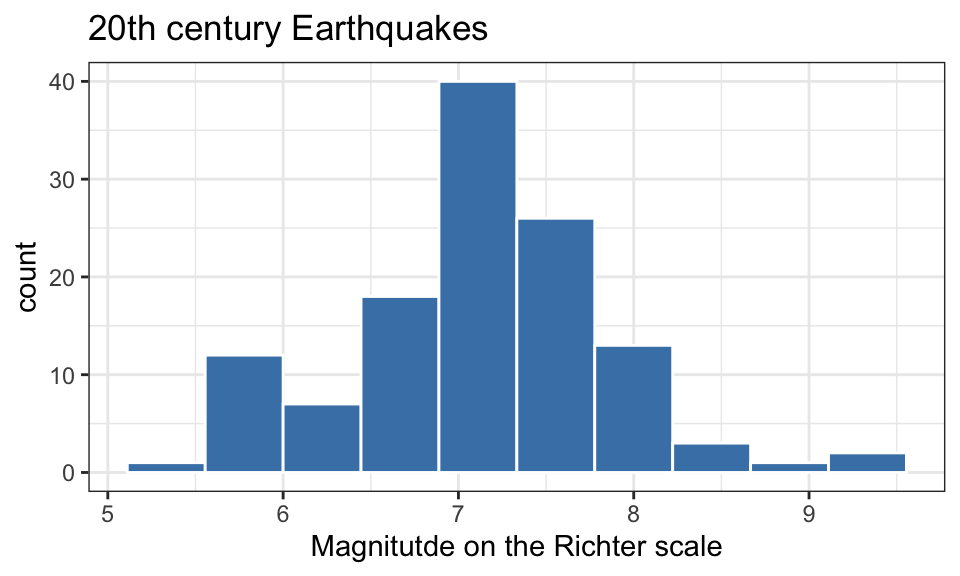
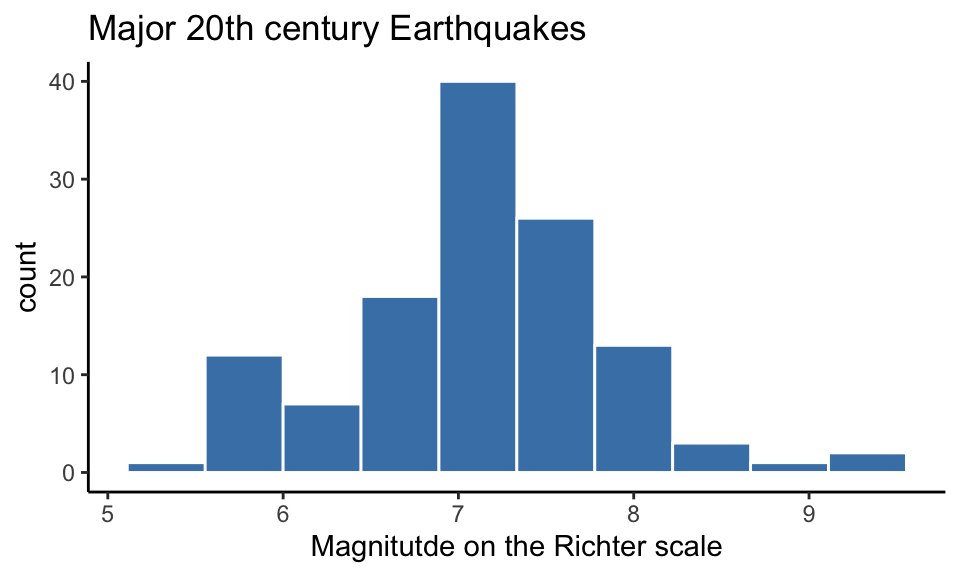
fix typos in data viz

diff --git a/dataviz.html b/dataviz.html
@@ -424,7 +424,7 @@ div.tocify {
 <p><strong>Example 1</strong>: A histogram of all magnitudes (on the <code>richter</code> scale):</p>
 <pre class="r"><code>ggplot(data=df)+
   geom_histogram(aes(x=richter),col=&quot;white&quot;,fill=&quot;steelblue&quot;,bins=10) +
-  ggtitle(&quot;20th century Earthquakes&quot;) +
+  ggtitle(&quot;Major 20th century Earthquakes&quot;) +
   xlab(&quot;Magnitutde on the Richter scale&quot;)</code></pre>
 <p><img src="dataviz_files/figure-html/unnamed-chunk-4-1.png" width="576" /></p>
 <p><strong>Notes on code</strong>:</p>
@@ -457,10 +457,10 @@ div.tocify {
 <h2>Add color and axis labels</h2>
 <pre class="r"><code>ggplot(data = df) +
   geom_histogram(aes(x=richter),bins = 20,col=&quot;blue&quot;,fill=&quot;yellow&quot;) + 
-  ggtitle(&quot;20th century Earthquakes&quot;) +
+  ggtitle(&quot;Major 20th century Earthquakes&quot;) +
   xlab(&quot;Magnitude on the Ricther scale&quot;)</code></pre>
 <p><img src="dataviz_files/figure-html/unnamed-chunk-6-1.png" width="480" /></p>
-<p>The <code>col</code> option colors the boundary of each bar, the <code>fill</code> option colors the interior of each bar. If we want to change the y-axis label, we use the code <code>ylab("enter new label here inside quotes")</code>.</p>
+<p>The <code>col</code> option colors the boundary of each bar, the <code>fill</code> option colors the interior of each bar. If we want to change the y-axis label, we add the layer <code>ylab("enter new label here inside quotes")</code>.</p>
 </div>
 <div id="specify-the-bins" class="section level2">
 <h2>Specify the bins</h2>
@@ -480,36 +480,46 @@ div.tocify {
 <p><img src="dataviz_files/figure-html/unnamed-chunk-8-1.png" width="480" /></p>
 </div>
 </div>
+<div id="add-a-vertical-line-to-a-histogram" class="section level2">
+<h2>Add a vertical line to a histogram</h2>
+<p>We can add a vertical line layer to a plot with <code>geom_vline()</code>. For instance, we may want to clearly mark in a histogram the mean value of the data.</p>
+<pre class="r"><code>ggplot(data = df) +
+  geom_histogram(aes(x=richter),col=&quot;white&quot;,fill=&quot;dodgerblue&quot;,bins=16)+
+  geom_vline(aes(xintercept=mean(richter)),
+             color=&quot;blue&quot;, linetype=&quot;dashed&quot;, size=1)</code></pre>
+<p><img src="dataviz_files/figure-html/unnamed-chunk-9-1.png" width="480" /></p>
+<p>We can add non-vertical lines to plots as well, and go through this in the scatter plots section of this tutorial.</p>
+</div>
 <div id="change-the-theme" class="section level2">
 <h2>Change the theme</h2>
 <p>If you’re not a fan of the gray plot background, you can change the theme. Here are two other options:</p>
 <pre class="r"><code>ggplot(data=df)+
   geom_histogram(aes(x=richter),col=&quot;white&quot;,fill=&quot;steelblue&quot;,bins=10) +
-  ggtitle(&quot;20th century Earthquakes&quot;) +
+  ggtitle(&quot;Major 20th century Earthquakes&quot;) +
   xlab(&quot;Magnitutde on the Richter scale&quot;)+
   theme_classic()</code></pre>
-<p><img src="dataviz_files/figure-html/unnamed-chunk-9-1.png" width="480" /></p>
+<p><img src="dataviz_files/figure-html/unnamed-chunk-10-1.png" width="480" /></p>
 <pre class="r"><code>ggplot(data=df)+
   geom_histogram(aes(x=richter),col=&quot;white&quot;,fill=&quot;steelblue&quot;,bins=10) +
-  ggtitle(&quot;20th century Earthquakes&quot;) +
+  ggtitle(&quot;Major 20th century Earthquakes&quot;) +
   xlab(&quot;Magnitutde on the Richter scale&quot;) + 
   theme_bw()</code></pre>
-<p><img src="dataviz_files/figure-html/unnamed-chunk-10-1.png" width="480" /></p>
+<p><img src="dataviz_files/figure-html/unnamed-chunk-11-1.png" width="480" /></p>
 </div>
-<div id="bonus-round---density-plot" class="section level2">
-<h2>Bonus Round - Density Plot</h2>
+<div id="density-plots" class="section level2">
+<h2>Density Plots</h2>
 <p>Instead of a histogram of counts, we can produce a histogram of relative frequencies by adding the option <code>aes(y = ..density..)</code> as below. This will produce a histogram that records the proportion of the values falling in each bin, not the total counts.</p>
 <pre class="r"><code>ggplot(df) + 
   geom_histogram(aes(x=richter,y = ..density..), bins=16, col=&quot;white&quot;, fill=&quot;dodgerblue&quot;,alpha = 0.4)</code></pre>
-<p><img src="dataviz_files/figure-html/unnamed-chunk-11-1.png" width="480" /></p>
-<p><strong>Note</strong>: The <code>alpha</code> option refers to the opacity of the fill color. Values of alpha range from 0 to 1, with lower values corresponding to more transparent colors.</p>
-<pre class="r"><code>ggplot(df) + 
-  geom_density(aes(x=richter)) + 
-  geom_vline(aes(xintercept=mean(richter)),
-            color=&quot;blue&quot;, linetype=&quot;dashed&quot;, size=1)</code></pre>
 <p><img src="dataviz_files/figure-html/unnamed-chunk-12-1.png" width="480" /></p>
-<p>The <code>geom_density()</code> function gives an idealized density plot rather than a histogram.</p>
-<p>The <code>geom_vline()</code> option places a vertical line in the graph, for which we’ve specified these options: the color is blue, it is dashed, and it hits the x-axis at the mean value of the <code>richter</code> variable.</p>
+<p><strong>Note</strong>: The <code>alpha</code> option refers to the opacity of the fill color. Values of alpha range from 0 to 1, with lower values corresponding to more transparent colors.</p>
+</div>
+<div id="sketch-a-density-curve" class="section level2">
+<h2>Sketch a density curve</h2>
+<p>The <code>geom_density()</code> command gives an idealized density curve rather than a histogram.</p>
+<pre class="r"><code>ggplot(df) + 
+  geom_density(aes(x=richter))</code></pre>
+<p><img src="dataviz_files/figure-html/unnamed-chunk-13-1.png" width="480" /></p>
 </div>
 </div>
 <div id="scatter-plots-with-ggplot" class="section level1">
@@ -522,7 +532,7 @@ div.tocify {
 <p>Although there is likely no association, we can plot earthquake magnitude against the day of the month on which it occurred.</p>
 <pre class="r"><code>ggplot(data = df) +
   geom_point(aes(x=richter,y=day))</code></pre>
-<p><img src="dataviz_files/figure-html/unnamed-chunk-13-1.png" width="480" /></p>
+<p><img src="dataviz_files/figure-html/unnamed-chunk-14-1.png" width="480" /></p>
 </div>
 <div id="add-color-and-axis-labels-1" class="section level2">
 <h2>Add color and axis labels</h2>
@@ -532,7 +542,7 @@ div.tocify {
   ylab(&quot;day of the month&quot;) +
   ggtitle(&quot;Major 20th Century Earthquakes&quot;) + 
   theme_bw()</code></pre>
-<p><img src="dataviz_files/figure-html/unnamed-chunk-14-1.png" width="480" /></p>
+<p><img src="dataviz_files/figure-html/unnamed-chunk-15-1.png" width="480" /></p>
 <p><strong>Notes</strong>:</p>
 <ol style="list-style-type: decimal">
 <li>In this plot we specify the color (“blue”) outside the aesthetic. This if fine if we want a single color for all the points. If we want the color of a point to depend on some categorical variable, as in the plot below, we specify that inside <code>aes()</code>.<br />
@@ -548,7 +558,7 @@ div.tocify {
   xlab(&quot;magnitude&quot;) + 
   ylab(&quot;day of the month&quot;) +
   ggtitle(&quot;Major 20th Century Earthquakes&quot;)</code></pre>
-<p><img src="dataviz_files/figure-html/unnamed-chunk-15-1.png" width="480" /></p>
+<p><img src="dataviz_files/figure-html/unnamed-chunk-16-1.png" width="576" /></p>
 </div>
 <div id="bonus-round---fit-the-line" class="section level2">
 <h2>Bonus Round - Fit the line</h2>
@@ -561,12 +571,12 @@ div.tocify {
 <pre class="r"><code>ggplot(data = df) +
   geom_point(aes(x=richter,y=day))+
   geom_abline(slope = -0.4561, intercept = 20.227)</code></pre>
-<p><img src="dataviz_files/figure-html/unnamed-chunk-16-1.png" width="480" /></p>
+<p><img src="dataviz_files/figure-html/unnamed-chunk-17-1.png" width="480" /></p>
 <p><strong>Note</strong>: We can change the size of the points and the size of the line, and we can change the linetype in the <code>geom_abline()</code> layer.</p>
 <pre class="r"><code>ggplot(data = df) +
   geom_point(aes(x=richter,y=day),size=.5)+
   geom_abline(slope = -0.4561, intercept = 20.227,col=&quot;blue&quot;,linetype=&quot;dashed&quot;,size=.7)</code></pre>
-<p><img src="dataviz_files/figure-html/unnamed-chunk-17-1.png" width="480" /></p>
+<p><img src="dataviz_files/figure-html/unnamed-chunk-18-1.png" width="480" /></p>
 </div>
 <div id="using-geom_smooth" class="section level4">
 <h4>Using geom_smooth()</h4>
@@ -575,7 +585,7 @@ div.tocify {
   geom_point(size=.5)+
   geom_smooth(method=&#39;lm&#39;, formula=y~x,se=FALSE) +
   theme_bw()</code></pre>
-<p><img src="dataviz_files/figure-html/unnamed-chunk-18-1.png" width="480" /></p>
+<p><img src="dataviz_files/figure-html/unnamed-chunk-19-1.png" width="480" /></p>
 <p><strong>Note</strong>: Now the x and y coordinates in the plot are specified within the <code>ggplot</code> command since both the <code>geom_smooth</code> and <code>geom_point</code> commands require them. Alternatively, we could have indicated them in both layers.</p>
 <!--
 The gray bar of varying thickness surrounding the least squares regression line is called a confidence band, something we won't consider here.  To remove it from a plot, add the `se = FALSE` option in your geom_smooth() line.  While we're at it, let's spruce up the look of it all:
@@ -591,10 +601,10 @@ The gray bar of varying thickness surrounding the least squares regression line 
 <p>Key layer: Use the <code>geom_boxplot()</code> plot type command.</p>
 </blockquote>
 <pre class="r"><code>ggplot(data = df) +
-  geom_boxplot(aes(x=richter)) +
+  geom_boxplot(aes(x=richter),width=.2) +
   xlab(&quot;magnitude&quot;) + 
   ggtitle(&quot;Major 20th century earthquakes&quot;)</code></pre>
-<p><img src="dataviz_files/figure-html/unnamed-chunk-19-1.png" width="384" /></p>
+<p><img src="dataviz_files/figure-html/unnamed-chunk-20-1.png" width="384" /></p>
 <p>This plot is unsatisfying because it gives values on the y-axis, which are meaningless in the context of this box plot. We can hide them:</p>
 <pre class="r"><code>ggplot(data = df) +
   geom_boxplot(aes(x=richter)) +
@@ -602,7 +612,7 @@ The gray bar of varying thickness surrounding the least squares regression line 
   ggtitle(&quot;Major 20th century earthquakes&quot;)+
   theme(axis.ticks.y = element_blank(),
         axis.text.y = element_blank())</code></pre>
-<p><img src="dataviz_files/figure-html/unnamed-chunk-20-1.png" width="384" /></p>
+<p><img src="dataviz_files/figure-html/unnamed-chunk-21-1.png" width="384" /></p>
 </div>
 <div id="add-points-to-box-plots" class="section level2">
 <h2>Add points to box plots</h2>
@@ -614,7 +624,7 @@ The gray bar of varying thickness surrounding the least squares regression line 
   ggtitle(&quot;Major 20th century earthquakes&quot;)+
   theme(axis.ticks.y = element_blank(),
         axis.text.y = element_blank())</code></pre>
-<p><img src="dataviz_files/figure-html/unnamed-chunk-21-1.png" width="672" /></p>
+<p><img src="dataviz_files/figure-html/unnamed-chunk-22-1.png" width="672" /></p>
 <p><strong>Note</strong>: The <code>geom_jitter()</code> command is the same as the <code>geom_point()</code> with the exception that the computer randomly moves the points a tiny bit(a little “jitter”). This feature is a nice way to see multiple points that might otherwise be stacked right on top of one another. The <code>height=.1</code> option means I’m letting the y-coordinate of the point (the height) vary plus or minus .1 units from its actual value.</p>
 </div>
 <div id="side-by-side-box-plots" class="section level2">
@@ -626,7 +636,7 @@ The gray bar of varying thickness surrounding the least squares regression line 
   xlab(&quot;magnitude&quot;) + 
   ylab(&quot;month&quot;) + 
   ggtitle(&quot;Major 20th century earthquakes&quot;)</code></pre>
-<p><img src="dataviz_files/figure-html/unnamed-chunk-22-1.png" width="576" /></p>
+<p><img src="dataviz_files/figure-html/unnamed-chunk-23-1.png" width="576" /></p>
 </div>
 <div id="coloring-box-plots" class="section level2">
 <h2>Coloring box plots</h2>
@@ -636,7 +646,7 @@ The gray bar of varying thickness surrounding the least squares regression line 
   xlab(&quot;magnitude&quot;) + 
   ylab(&quot;month&quot;) + 
   ggtitle(&quot;Major 20th century earthquakes&quot;)</code></pre>
-<p><img src="dataviz_files/figure-html/unnamed-chunk-23-1.png" width="576" /></p>
+<p><img src="dataviz_files/figure-html/unnamed-chunk-24-1.png" width="576" /></p>
 </div>
 <div id="ordering-months-chronologically" class="section level2">
 <h2>Ordering months chronologically</h2>
@@ -648,7 +658,7 @@ ggplot(data = df) +
   xlab(&quot;magnitude&quot;) + 
   ylab(&quot;month&quot;) + 
   ggtitle(&quot;Major 20th century earthquakes&quot;)</code></pre>
-<p><img src="dataviz_files/figure-html/unnamed-chunk-24-1.png" width="576" /></p>
+<p><img src="dataviz_files/figure-html/unnamed-chunk-25-1.png" width="576" /></p>
 </div>
 <div id="bonus-round---color-opacity" class="section level2">
 <h2>Bonus Round - Color Opacity</h2>
@@ -658,18 +668,18 @@ ggplot(data = df) +
   xlab(&quot;magnitude&quot;) + 
   ylab(&quot;month&quot;) + 
   ggtitle(&quot;Major 20th century earthquakes&quot;)</code></pre>
-<p><img src="dataviz_files/figure-html/unnamed-chunk-25-1.png" width="576" /></p>
+<p><img src="dataviz_files/figure-html/unnamed-chunk-26-1.png" width="576" /></p>
 </div>
 </div>
 <div id="bar-plot-for-a-categorical-variable" class="section level1">
 <h1>Bar plot for a categorical variable</h1>
 <p>In Base R we can visualize the frequencies for a categorical variable as follows:</p>
 <pre class="r"><code>barplot(table(df$month))</code></pre>
-<p><img src="dataviz_files/figure-html/unnamed-chunk-26-1.png" width="576" /></p>
+<p><img src="dataviz_files/figure-html/unnamed-chunk-27-1.png" width="576" /></p>
 <p>We can also create a bar plot with gglplot with the following code:</p>
 <pre class="r"><code>ggplot(data=df,aes(x=month))+
   geom_bar(stat=&quot;count&quot;)</code></pre>
-<p><img src="dataviz_files/figure-html/unnamed-chunk-27-1.png" width="576" /></p>
+<p><img src="dataviz_files/figure-html/unnamed-chunk-28-1.png" width="576" /></p>
 <p><strong>Note</strong>: We can specify colors manually, change bar width, add labels, and even rotate them so they look less crowded. We can also specify the limits of the values on the y-axis to be, say, 0 to 20:</p>
 <pre class="r"><code>colors=c(&quot;wheat&quot;,&quot;steelblue&quot;,&quot;tomato&quot;,&quot;seagreen&quot;,&quot;yellow&quot;,&quot;purple&quot;,
          &quot;pink&quot;,&quot;orange&quot;,&quot;brown3&quot;,&quot;dodgerblue&quot;,&quot;gray&quot;,&quot;darkblue&quot;)
@@ -678,7 +688,7 @@ ggplot(data=df,aes(x=month))+
   ylim(0,20)+
   ggtitle(&quot;Number of earthquakes by month&quot;)+
   theme(axis.text.x=element_text(angle=60,vjust=.5))</code></pre>
-<p><img src="dataviz_files/figure-html/unnamed-chunk-28-1.png" width="576" /></p>
+<p><img src="dataviz_files/figure-html/unnamed-chunk-29-1.png" width="576" /></p>
 </div>
 <div id="cheat-sheet" class="section level1">
 <h1>Cheat Sheet</h1>

diff --git a/inference.html b/inference.html
@@ -531,7 +531,7 @@ z</code></pre>
 </div>
 <div id="using-t.test" class="section level1">
 <h1>Using <code>t.test()</code></h1>
-<p>The <code>t.test()</code> function is a <em>black box</em> r command that does confidence interval and test of significance calculations for for us in one fell swoop for both a single population mean and for the difference of two means. (If you type t.test in the RStudio help search box you can get information about options.)</p>
+<p>The <code>t.test()</code> function is a <em>black box</em> r command that does confidence interval and test of significance calculations for us in one fell swoop for both a single population mean and for the difference of two means. (If you type t.test in the RStudio help search box you can get information about options.)</p>
 <p>The following code reproduces the test of significance we just ran through, and it will also give the 95% confidence interval we calculated. Essentially we input the data vector, the value of the mean under the null hypothesis, and the nature of our alternative hypothesis (<code>greater</code>, <code>less</code>, or <code>two.sided</code>).</p>
 <pre class="r"><code>wb = c(52.0, 48.9, 47.3, 47.3, 48.6, 48.8, 42.8, 44.3, 46.7, 46.4, 
        47.5, 51.4, 49.0, 47.7, 48.5, 48.5, 45.8, 49.3, 48.1, 46.5)
